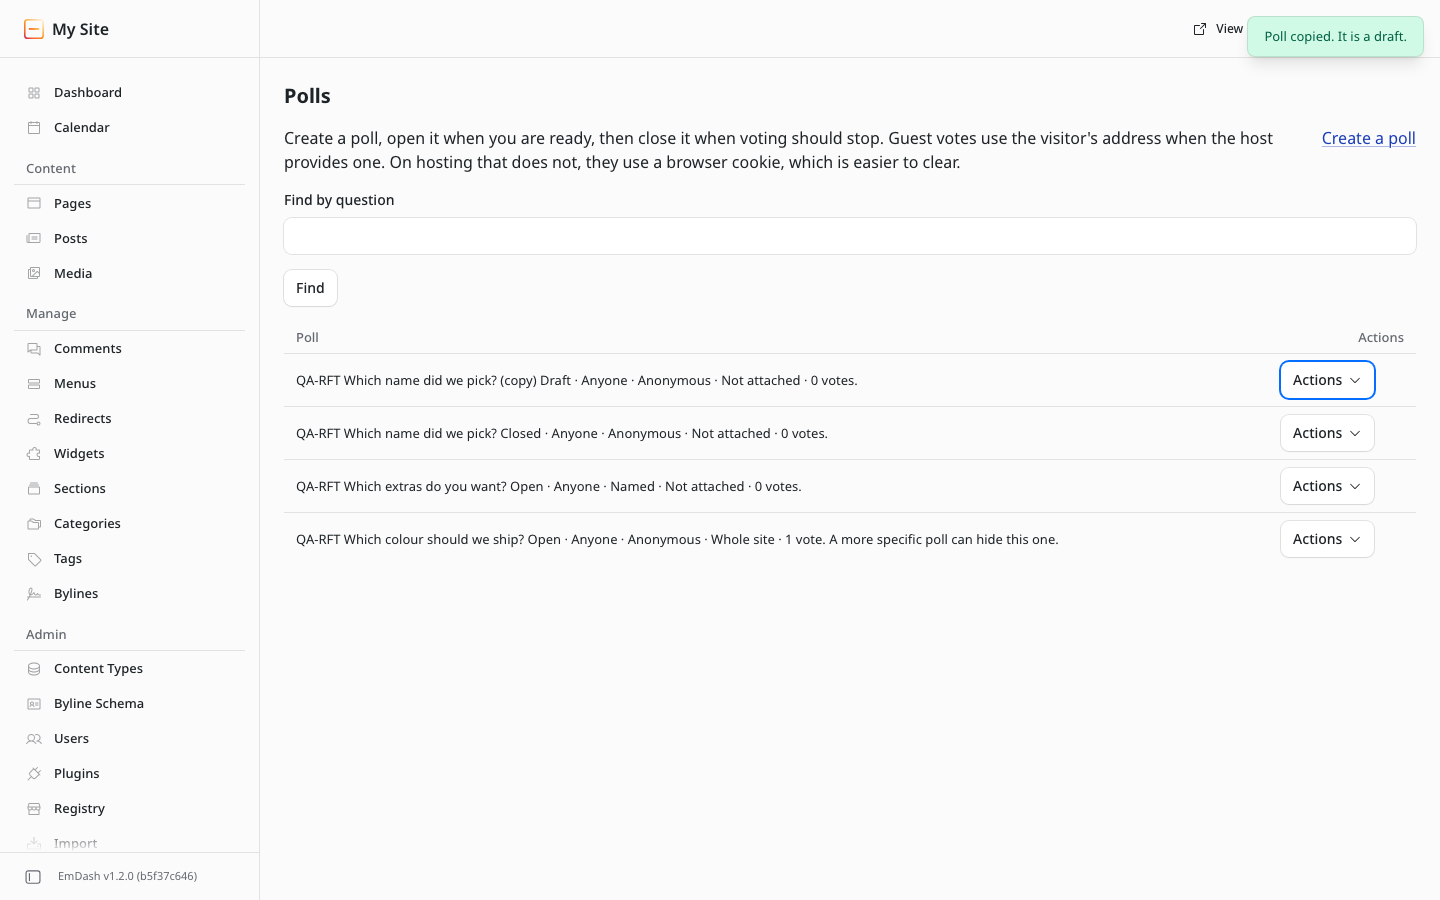
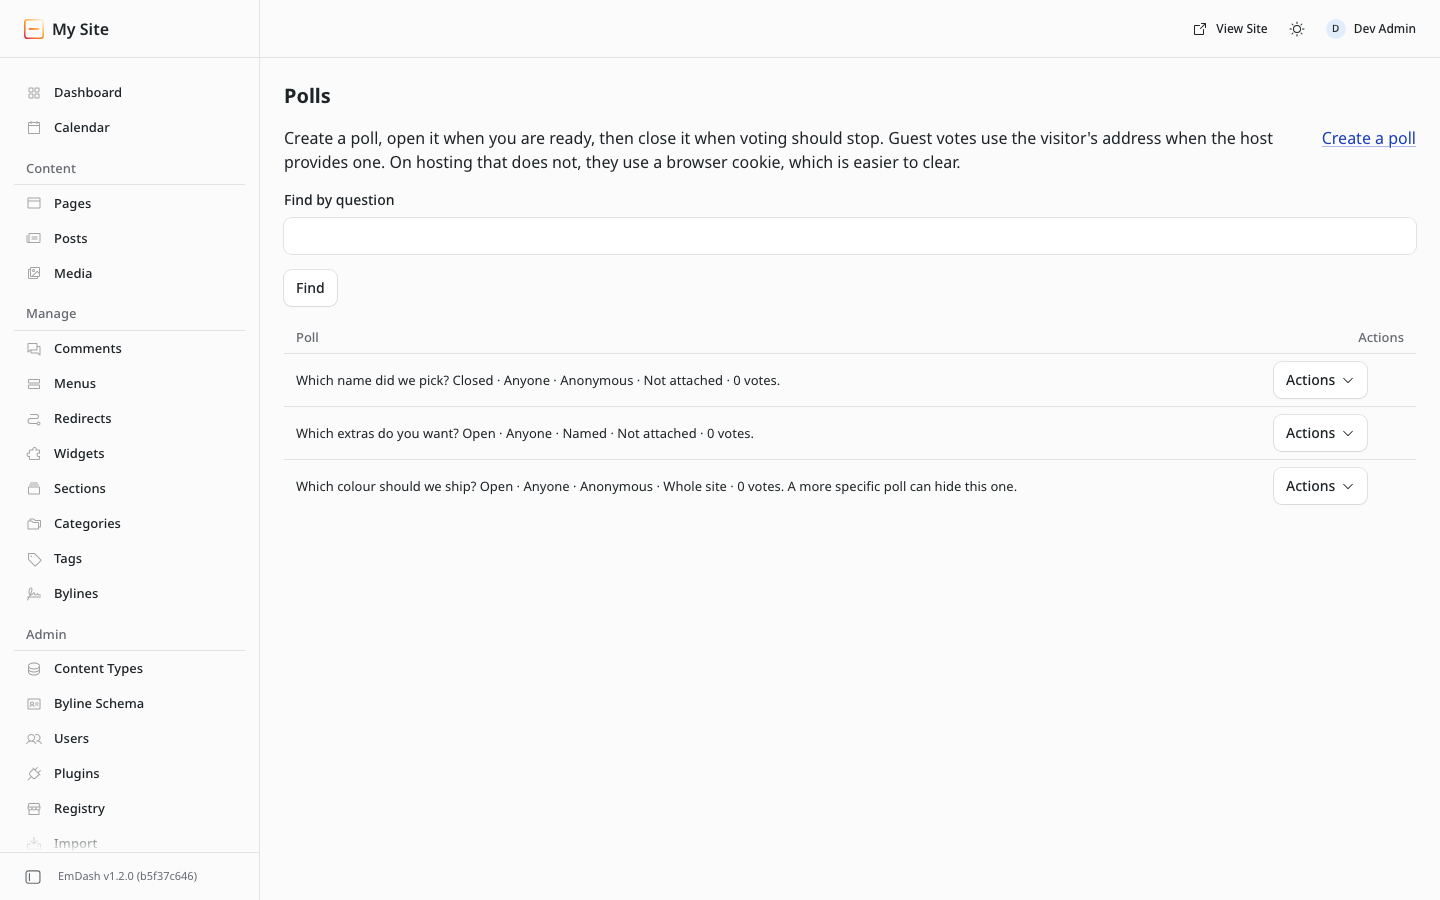
Use ordinary poll names on the lab and in the registry screenshots.

diff --git a/docs/qa/QA_CHECKLIST.md b/docs/qa/QA_CHECKLIST.md
@@ -83,4 +83,4 @@ Three roles, in this order: guest (private window), member (subscriber), admin. 
 - My votes (`<MyVotes>`) is 0.2.0 (#6).
 - In-text Poll block (#16): trusted companion activates (`polls-block` in plugin state). Registry install is unchanged. A live list of polls cannot be filled from static Block Kit fields. The post editor was not proven to show Poll in the slash menu. Reported on #16.
 - Admin Actions control is about 36px tall (EmDash table chrome). Kit vote buttons meet 40px.
-- Registry screenshots still need a clean reset without QA-RFT names before publish.
+- Registry screenshots are taken from a reset lab after `prove-lab.sh` seeds three ordinary demo polls.
